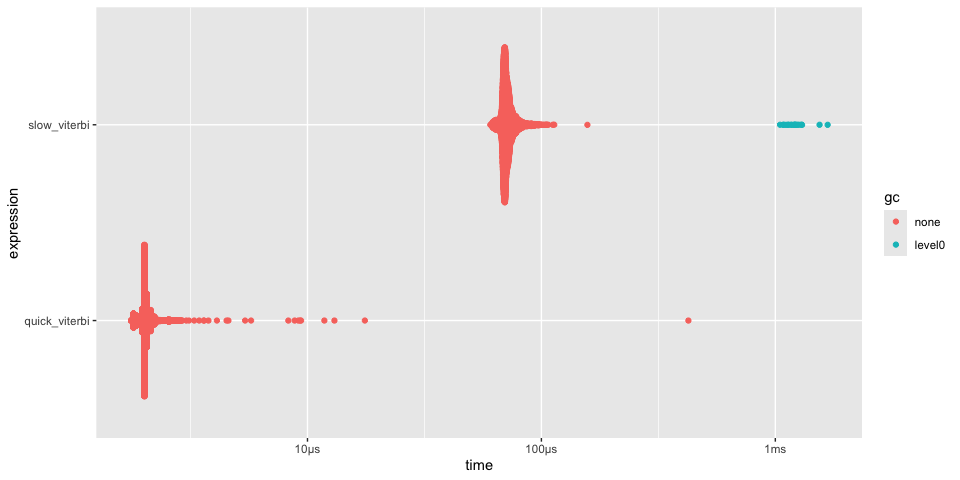
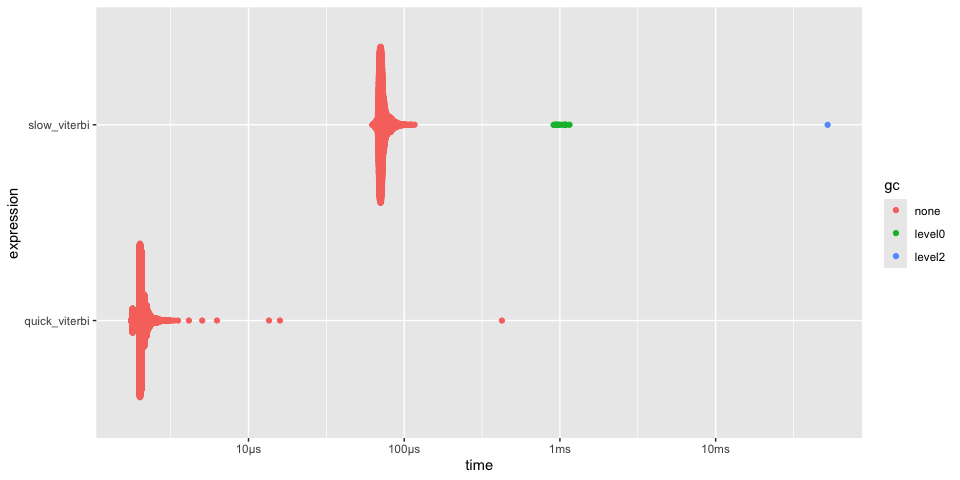
Stop setting OpenMP threads by default

diff --git a/README.md b/README.md
@@ -140,9 +140,9 @@ timings
 #> # A tibble: 3 × 6
 #>   expression      min   median `itr/sec` mem_alloc `gc/sec`
 #>   <bch:expr> <bch:tm> <bch:tm>     <dbl> <bch:byt>    <dbl>
-#> 1 r             487ms 487.01ms      2.05     847KB     8.21
-#> 2 quickr        932µs   1.07ms    931.       782KB    15.8 
-#> 3 c             916µs   1.07ms    931.       782KB    15.7
+#> 1 r             489ms 489.79ms      2.04     847KB     3.06
+#> 2 quickr        914µs   1.07ms    934.       782KB    15.3 
+#> 3 c             920µs   1.07ms    927.       782KB    15.7
 plot(timings) + bench::scale_x_bench_time(base = NULL)
 ```
 
@@ -285,8 +285,8 @@ timings
 #> # A tibble: 2 × 6
 #>   expression         min   median `itr/sec` mem_alloc `gc/sec`
 #>   <bch:expr>    <bch:tm> <bch:tm>     <dbl> <bch:byt>    <dbl>
-#> 1 slow_viterbi   60.56µs  70.44µs    13960.     178KB     37.7
-#> 2 quick_viterbi   1.76µs   2.01µs   478162.        0B      0
+#> 1 slow_viterbi   62.36µs   71.3µs    13731.     178KB     34.6
+#> 2 quick_viterbi   1.76µs   2.05µs   468885.        0B      0
 plot(timings)
 ```
 
@@ -370,8 +370,8 @@ summary(timings, relative = TRUE)
 #> # A tibble: 2 × 6
 #>   expression           min median `itr/sec` mem_alloc `gc/sec`
 #>   <bch:expr>         <dbl>  <dbl>     <dbl>     <dbl>    <dbl>
-#> 1 diffuse_heat        93.7   87.4       1        515.     1   
-#> 2 quick_diffuse_heat   1      1        87.4        1      1.37
+#> 1 diffuse_heat        91.8   87.2       1        515.      Inf
+#> 2 quick_diffuse_heat   1      1        87.3        1       NaN
 plot(timings)
 ```
 
@@ -417,9 +417,9 @@ timings
 #> # A tibble: 3 × 6
 #>   expression      min   median `itr/sec` mem_alloc `gc/sec`
 #>   <bch:expr> <bch:tm> <bch:tm>     <dbl> <bch:byt>    <dbl>
-#> 1 r           67.31ms  81.53ms      9.77  124.31MB    23.5 
-#> 2 rcpp         6.23ms   6.33ms    153.      4.44MB     1.98
-#> 3 quickr        2.3ms   2.46ms    402.    781.35KB     3.98
+#> 1 r           64.68ms  74.95ms      9.90  124.31MB    21.8 
+#> 2 rcpp         5.92ms   6.33ms    154.      4.44MB     1.98
+#> 3 quickr       2.15ms   2.42ms    414.    781.35KB     4.00
 
 timings$expression <- factor(names(timings$expression), rev(names(timings$expression)))
 plot(timings) + bench::scale_x_bench_time(base = NULL)
@@ -480,10 +480,10 @@ r |>
 
 <img src="man/figures/README-unnamed-chunk-9-1.png" width="100%" />
 
-By default, quickr will set `OMP_NUM_THREADS` to
-`floor(parallel::detectCores(logical = FALSE) * 0.75)` if it is unset,
-so a 16-core machine will use 12 threads. You can override this by
-setting `OMP_NUM_THREADS` before compiling a function.
+quickr does not set OpenMP thread counts. To control threads, set
+`OMP_NUM_THREADS` (and optionally `OMP_THREAD_LIMIT` or `OMP_DYNAMIC`)
+before calling a compiled function,
+e.g. `Sys.setenv(OMP_NUM_THREADS = "4")`.
 
 ## Using `quickr` in an R package
 
